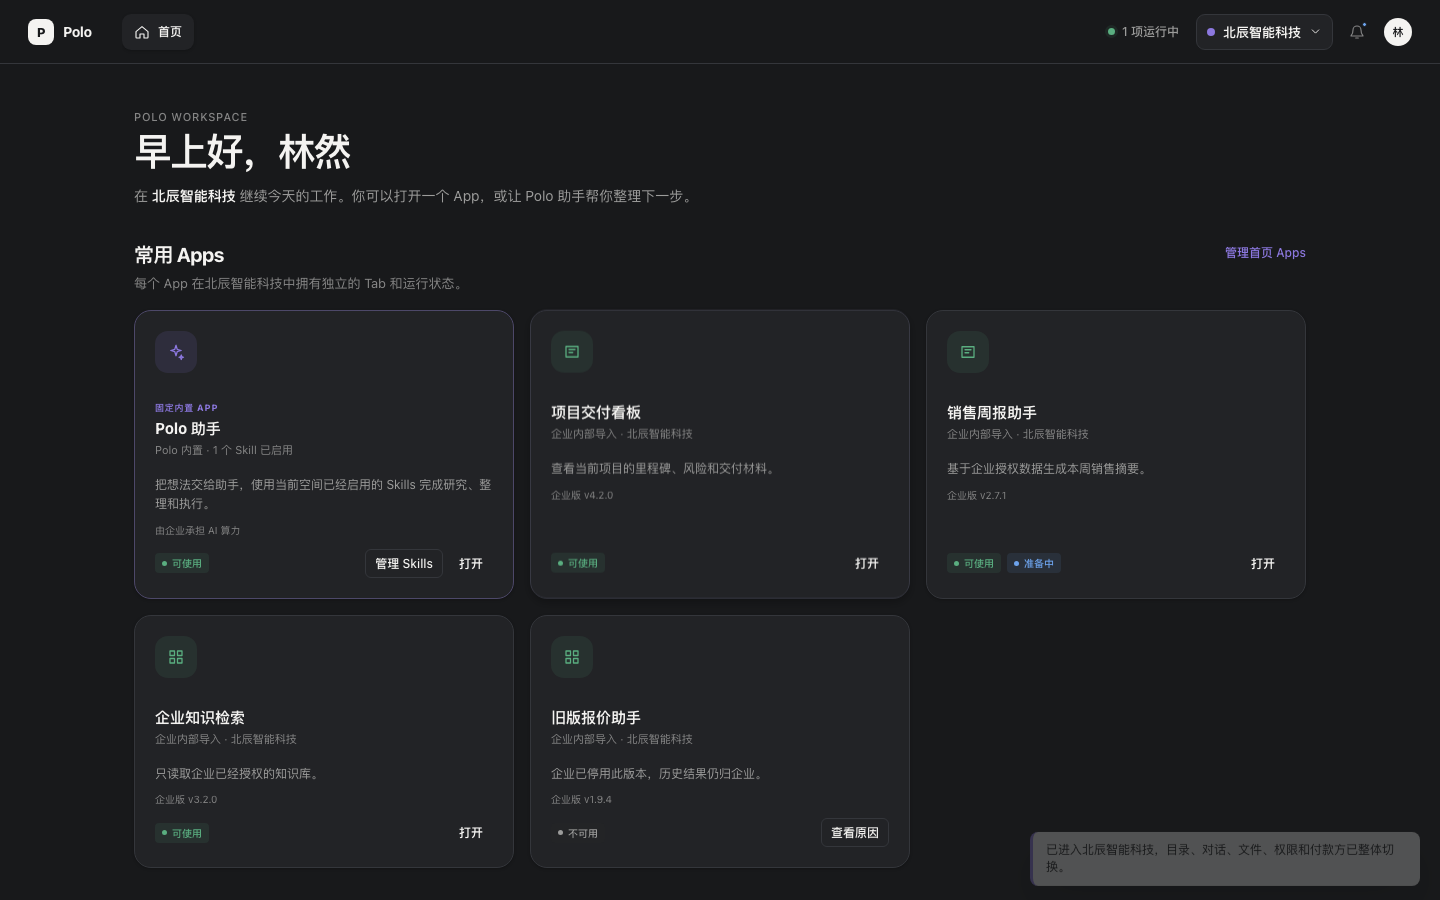
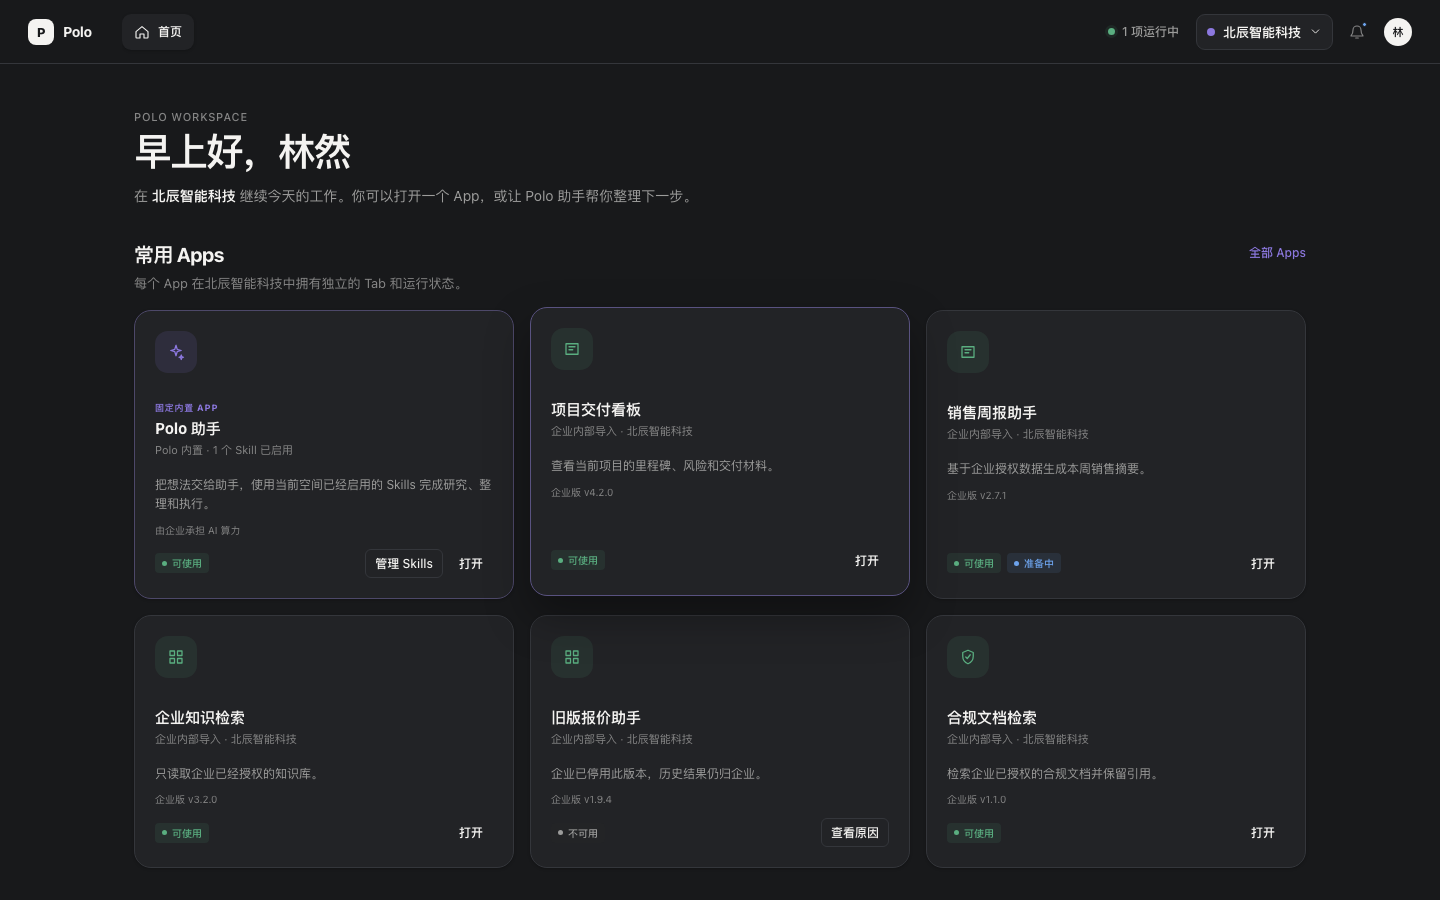
feat(polo-client): 增加当前空间全部 App 目录

diff --git a/design-demos/polo-client-g4-ui/assets/app.js b/design-demos/polo-client-g4-ui/assets/app.js
@@ -49,7 +49,10 @@
     weekly: { name: "销售周报助手", icon: "app", source: "企业内部导入 · 北辰智能科技", version: "企业版 v2.7.1", description: "基于企业授权数据生成本周销售摘要。", availability: "available" },
     knowledge: { name: "企业知识检索", icon: "grid", source: "企业内部导入 · 北辰智能科技", version: "企业版 v3.2.0", description: "只读取企业已经授权的知识库。", availability: "available" },
     legacy: { name: "旧版报价助手", icon: "grid", source: "企业内部导入 · 北辰智能科技", version: "企业版 v1.9.4", description: "企业已停用此版本，历史结果仍归企业。", availability: "unavailable", reason: "企业管理员已停用该版本。成员不能重新启用；如需恢复，请联系北辰智能科技管理员。" },
-    compliance: { name: "合规文档检索", icon: "shield", source: "企业内部导入 · 北辰智能科技", version: "企业版 v1.1.0", description: "已向你分发，添加后可从首页快速打开。", availability: "available" }
+    compliance: { name: "合规文档检索", icon: "shield", source: "企业内部导入 · 北辰智能科技", version: "企业版 v1.1.0", description: "检索企业已授权的合规文档并保留引用。", availability: "available" },
+    contract: { name: "合同风险扫描", icon: "shield", source: "企业内部导入 · 北辰智能科技", version: "企业版 v2.1.0", description: "识别合同中的付款、交付和责任风险。", availability: "available" },
+    review: { name: "项目复盘生成", icon: "app", source: "企业内部导入 · 北辰智能科技", version: "企业版 v1.4.0", description: "将里程碑、任务和会议材料整理为项目复盘。", availability: "available" },
+    customer_summary: { name: "客户资料摘要", icon: "grid", source: "企业内部导入 · 北辰智能科技", version: "企业版 v2.0.0", description: "从企业授权的客户材料中提取背景与待跟进事项。", availability: "available" }
   };
 
   const catalog = {
@@ -74,8 +77,8 @@
       ]
     },
     enterprise: {
-      added: ["board", "weekly", "knowledge", "legacy"],
-      available: ["compliance"],
+      added: ["board", "weekly", "knowledge", "legacy", "compliance"],
+      available: ["contract", "review", "customer_summary"],
       recent: [
         { id: "board", detail: "季度交付 · 6 分钟前" },
         { id: "assistant", detail: "企业知识检索 · 昨天" },
@@ -109,6 +112,7 @@
     highlightedSkill: null,
     circleQuery: "",
     circleFilter: "all",
+    catalogQuery: "",
     circleMemberships: space === "personal" ? { bridge: "active", north: "active", growth: "cancelled" } : {},
     assistantPanel: "chat",
     fileQuery: "",
@@ -153,7 +157,10 @@
     board: space => `读取${space.name}已向当前成员授权的项目、里程碑和交付材料`,
     weekly: space => `读取${space.name}已授权的销售数据与本次选择的补充材料`,
     knowledge: space => `只检索${space.name}已向当前成员开放的企业知识库`,
-    compliance: space => `只检索${space.name}已授权的合规文档，并保存引用记录`
+    compliance: space => `只检索${space.name}已授权的合规文档，并保存引用记录`,
+    contract: space => `只读取${space.name}中本次明确选择的合同，并将风险清单写回企业空间`,
+    review: space => `读取${space.name}已向当前成员授权的项目材料，并保存复盘结果`,
+    customer_summary: space => `只读取${space.name}已授权的客户资料，并保存摘要与待办`
   };
 
   const escapeHtml = value => String(value).replace(/[&<>'"]/g, char => ({ "&": "&amp;", "<": "&lt;", ">": "&gt;", "'": "&#39;", '"': "&quot;" }[char]));
@@ -250,17 +257,18 @@
       ? `<button class="card-action" data-remove="${id}">移出首页</button>`
       : atLimit
         ? `<button class="card-action" disabled title="请先移出一个工作 App">首页已满</button>`
-        : `<button class="card-action ${item.availability === "available" ? "primary" : ""}" data-add="${id}">显示在首页</button>`;
-    const action = `${reasonAction}${placementAction}`;
+        : `<button class="card-action" data-add="${id}">显示在首页</button>`;
+    const openAction = item.availability === "available" ? `<button class="card-action primary" data-open="${id}">打开</button>` : "";
+    const action = `${reasonAction}${placementAction}${openAction}`;
     const highlighted = current().highlightedApp === id && (!current().highlightedCircle || current().highlightedCircle === circle?.id);
     return `<article class="product-card placement-card ${highlighted ? "highlighted-card" : ""}"><div class="card-heading"><span class="app-art ${item.availability === "blocked" ? "ink" : item.update ? "amber" : "teal"}">${icon(item.icon)}</span><div class="card-title"><h3>${item.name}</h3><p class="source-line">来源圈子：${circle?.name || item.source}</p></div></div><p class="product-description">${item.description}</p><div class="card-meta">${circle?.creator || item.source} · ${item.version}</div><div class="status-line"><span class="status ${available.tone}">${available.label}</span>${running ? `<span class="status info">${statusLabel(running.status)}</span>` : ""}<span class="home-placement ${onHome ? "on" : ""}">${onHome ? "已在首页" : "未在首页"}</span>${action}</div></article>`;
   }
 
-  function circleAppGroup(circle) {
+  function circleAppGroup(circle, appIds = circle.apps) {
     const membership = circleMembership(circle);
-    const homeCount = circle.apps.filter(id => current().added.includes(id)).length;
+    const homeCount = appIds.filter(id => current().added.includes(id)).length;
     const highlighted = current().highlightedCircle === circle.id;
-    return `<section class="circle-app-section ${highlighted ? "highlighted-section" : ""}"><header class="circle-app-header"><span class="circle-avatar">${circle.initials}</span><div><div class="circle-app-title"><h3>${circle.name}</h3><span class="status ${membership.tone}">${membership.label}</span></div><p>${circle.creator} · ${circle.apps.length} 个 Apps · ${homeCount} 个显示在首页</p></div><button class="section-link" data-circle="${circle.id}">查看圈子详情</button></header><div class="card-grid">${circle.apps.map(id => homePlacementCard(id, circle)).join("")}</div></section>`;
+    return `<section class="circle-app-section ${highlighted ? "highlighted-section" : ""}"><header class="circle-app-header"><span class="circle-avatar">${circle.initials}</span><div><div class="circle-app-title"><h3>${circle.name}</h3><span class="status ${membership.tone}">${membership.label}</span></div><p>${circle.creator} · ${appIds.length} 个 Apps · ${homeCount} 个显示在首页</p></div><button class="section-link" data-circle="${circle.id}">查看圈子详情</button></header><div class="card-grid">${appIds.map(id => homePlacementCard(id, circle)).join("")}</div></section>`;
   }
 
   function utilityCard(id, title, description, meta) {
@@ -273,31 +281,54 @@
     const data = catalog[state.space];
     const circleEntry = state.space === "personal" ? `<button class="home-context-link" data-home-view="circles">${icon("circle")}<span><strong>我的圈子</strong><small>${visibleCircles().length} 个圈子</small></span>${icon("arrow")}</button>` : "";
     return `<section class="home-hero"><div><p class="eyebrow">Polo workspace</p><h1>早上好，林然</h1><p>在 <strong>${space.name}</strong> 继续今天的工作。你可以打开一个 App，或让 Polo 助手帮你整理下一步。</p></div>${circleEntry}</section>
-      ${section("常用 Apps", `每个 App 在${space.name}中拥有独立的 Tab 和运行状态。`, `<div class="card-grid home-app-grid">${assistantHomeCard()}${context.added.map(id => appCard(id)).join("")}</div>`, `<button class="section-link" data-home-view="catalog">管理首页 Apps</button>`)}
+      ${section("常用 Apps", `每个 App 在${space.name}中拥有独立的 Tab 和运行状态。`, `<div class="card-grid home-app-grid">${assistantHomeCard()}${context.added.map(id => appCard(id)).join("")}</div>`, `<button class="section-link" data-home-view="catalog">全部 Apps</button>`)}
       ${section("系统工具", "它们以 Tab 打开，但不拥有 App 的业务流程。", `<div class="utility-grid">${utilityCard("files", "文件", "当前空间上传、保存和导出的文件。", `${data.results.length + 9} 项内容`)}${utilityCard("tasks", "任务与结果", "Polo 掌握的执行状态与明确保存结果。", `${activeExecutions().length} 项运行中`)}</div>`)}
     `;
+  }
+
+  function matchesCatalogQuery(id, query, extra = []) {
+    if (!query) return true;
+    const item = apps[id];
+    return [item.name, item.description, item.source, item.version, ...extra].some(value => value.toLowerCase().includes(query));
+  }
+
+  function catalogSearchToolbar(visibleCount, totalCount) {
+    return `<div class="circle-browser-toolbar app-catalog-toolbar"><label><span>搜索当前空间的 App</span><input id="app-catalog-search" type="search" value="${escapeHtml(current().catalogQuery)}" placeholder="搜索 App 名称、功能或来源"></label><span>显示 <strong>${visibleCount}</strong> / ${totalCount} 个 Apps</span></div>`;
   }
 
   function catalogView() {
     const context = current();
     const data = catalog[state.space];
+    const query = context.catalogQuery.trim().toLowerCase();
+    const homeSection = section("首页快捷入口", `与首页保持一致：Polo 助手固定，另有 ${context.added.length} / 5 个工作 App。这里只管理首页位置，不影响 App 的授权。`, `<div class="card-grid">${assistantManagementCard()}${context.added.map(id => appCard(id, "manage")).join("")}</div>`);
     if (state.space === "personal") {
       const circles = visibleCircles();
       const appCount = circles.reduce((total, circle) => total + circle.apps.length, 0);
-      const groups = circles.map(circle => circleAppGroup(circle)).join("") || `<div class="empty-state"><h2>还没有圈子 Apps</h2><p>加入圈子后，获得的 Apps 会按来源出现在这里。</p></div>`;
-      const homeSection = section("首页当前展示", `与首页保持一致：Polo 助手固定，另有 ${context.added.length} / 5 个工作 App。可直接在这里移出。`, `<div class="card-grid">${assistantManagementCard()}${context.added.map(id => appCard(id, "manage")).join("")}</div>`);
-      const circleSection = section("圈子 Apps", `${circles.length} 个圈子，共 ${appCount} 个作品。同名作品也会分别显示，请通过来源圈子区分。`, `<div class="circle-app-list">${groups}</div>`);
-      return `${subpageHeader("管理首页 Apps", "上方就是首页当前布局；下方按圈子查看全部作品并选择哪些显示在首页。", `<button class="button" data-home-view="circles">${icon("circle")}我的圈子</button>`)}${homeSection}${circleSection}`;
+      const matchedGroups = circles.map(circle => ({ circle, ids: circle.apps.filter(id => matchesCatalogQuery(id, query, [circle.name, circle.creator])) })).filter(group => group.ids.length);
+      const visibleCount = matchedGroups.reduce((total, group) => total + group.ids.length, 0);
+      const groups = matchedGroups.map(group => circleAppGroup(group.circle, group.ids)).join("") || `<div class="empty-note">没有找到匹配的 App。试试作品名、功能或圈子名。</div>`;
+      const circleSection = section("当前空间的全部 Apps", `${circles.length} 个圈子，共 ${appCount} 个作品。同名作品会分别显示，并持续标明来源圈子。`, `${catalogSearchToolbar(visibleCount, appCount)}<div class="circle-app-list">${groups}</div>`, `<button class="section-link" data-home-view="circles">我的圈子</button>`);
+      return `${subpageHeader("全部 Apps", "首页只放最常用的 5 个工作 App；当前空间获得的其他 Apps 始终可以在这里搜索、打开和配置。")}${homeSection}${circleSection}`;
     }
-    const allIds = state.space === "personal" ? authorizedCircleAppIds() : [...new Set([...data.added, ...data.available])];
-    const availableIds = allIds.filter(id => !context.added.includes(id) && apps[id].availability === "available");
-    const unavailableIds = allIds.filter(id => !context.added.includes(id) && apps[id].availability !== "available");
-    const atLimit = context.added.length >= 5;
-    const sourceAction = `<button class="button" data-action="enterprise-admin">${icon("grid")}企业目录</button>`;
-    const addedSection = section("首页中的 Apps", `Polo 助手固定显示；另外最多放 5 个工作 App。当前共 ${context.added.length + 1} / 6 个。`, `<div class="card-grid">${assistantManagementCard()}${context.added.map(id => appCard(id, "manage")).join("")}</div>`);
-    const availableSection = section("其他可添加 Apps", atLimit ? "首页已满。请先从上方移出一个工作 App，再添加新的 App。" : "添加后会出现在首页，但不会自动打开或运行。", `<div class="card-grid compact-grid">${availableIds.map(id => appCard(id, atLimit ? "add-full" : "add")).join("") || `<div class="empty-note">所有可添加 App 都已在首页。</div>`}</div>`);
-    const unavailableSection = unavailableIds.length ? section("当前不可添加", "这些 App 的授权或安全状态不允许添加到首页；可以查看具体原因。", `<div class="card-grid compact-grid">${unavailableIds.map(id => appCard(id)).join("")}</div>`) : "";
-    return `${subpageHeader("管理首页 Apps", "在一个页面中添加或移除首页快捷入口。这里的操作不会运行或卸载 App。", sourceAction)}${addedSection}${availableSection}${unavailableSection}`;
+    const allIds = [...new Set([...data.added, ...data.available])];
+    const visibleIds = allIds.filter(id => matchesCatalogQuery(id, query, [currentSpace().name, "企业目录"]));
+    const directorySection = section("企业目录 Apps", `企业已向当前成员分发 ${allIds.length} 个 Apps。首页未展示的 App 仍可以直接打开。`, `${catalogSearchToolbar(visibleIds.length, allIds.length)}<div class="circle-browser-grid enterprise-app-grid">${visibleIds.map(id => enterpriseDirectoryCard(id)).join("") || `<div class="empty-note">没有找到匹配的企业 App。</div>`}</div>`, `<button class="section-link" data-action="enterprise-admin">企业目录来源</button>`);
+    return `${subpageHeader("全部 Apps", "首页只放最常用的 5 个工作 App；企业向你分发的其他 Apps 始终保留在当前空间目录中。")}${homeSection}${directorySection}`;
+  }
+
+  function enterpriseDirectoryCard(id) {
+    const item = apps[id];
+    const available = availability(item);
+    const running = executionFor(id);
+    const onHome = current().added.includes(id);
+    const atLimit = current().added.length >= 5;
+    const homeAction = onHome
+      ? `<button class="button" data-remove="${id}">移出首页</button>`
+      : atLimit
+        ? `<button class="button" disabled title="请先从上方移出一个工作 App">首页已满</button>`
+        : `<button class="button" data-add="${id}">显示在首页</button>`;
+    const openAction = item.availability === "available" ? `<button class="button primary" data-open="${id}">打开</button>` : `<button class="button" data-explain="${id}">查看原因</button>`;
+    return `<article class="circle-browser-card"><div class="circle-browser-heading"><span class="app-art ${item.availability === "blocked" ? "ink" : item.update ? "amber" : "teal"}">${icon(item.icon)}</span><div><h3>${item.name}</h3><span class="circle-source-pill">北辰智能科技企业目录</span></div></div><p>${item.description}</p><small>${item.version}</small><div class="circle-browser-status"><span class="status ${available.tone}">${available.label}</span>${running ? `<span class="status info">${statusLabel(running.status)}</span>` : ""}<span class="home-placement ${onHome ? "on" : ""}">${onHome ? "已在首页" : "未在首页"}</span></div><div class="circle-browser-actions">${homeAction}${openAction}</div></article>`;
   }
 
   function circlesView() {
@@ -315,7 +346,7 @@
     });
     const filters = `<div class="circle-filter-row" aria-label="按圈子筛选"><button class="circle-filter ${current().circleFilter === "all" ? "active" : ""}" data-circle-filter="all" aria-pressed="${current().circleFilter === "all"}">全部圈子 <span>${entries.length}</span></button>${circles.map(circle => `<button class="circle-filter ${current().circleFilter === circle.id ? "active" : ""}" data-circle-filter="${circle.id}" aria-pressed="${current().circleFilter === circle.id}">${circle.name} <span>${circle.apps.length}</span></button>`).join("")}</div>`;
     const browser = circles.length
-      ? `${section("全部圈子 Apps", "不需要先想起它属于哪个圈子。可以直接搜索、打开，每个作品都会标明来源圈子。", `<div class="circle-browser-toolbar"><label><span>搜索圈子 App</span><input id="circle-app-search" type="search" value="${escapeHtml(current().circleQuery)}" placeholder="搜索 App 名称、功能或来源圈子"></label><span>显示 <strong>${visibleEntries.length}</strong> / ${entries.length} 个 Apps</span></div>${filters}<div class="circle-browser-grid">${visibleEntries.map(({ id, circle }) => circleBrowserCard(id, circle)).join("") || `<div class="empty-note">没有找到匹配的圈子 App。试试作品名、功能或圈子名。</div>`}</div>`, `<button class="section-link" data-home-view="catalog">管理首页 Apps</button>`)}`
+      ? `${section("全部圈子 Apps", "不需要先想起它属于哪个圈子。可以直接搜索、打开，每个作品都会标明来源圈子。", `<div class="circle-browser-toolbar"><label><span>搜索圈子 App</span><input id="circle-app-search" type="search" value="${escapeHtml(current().circleQuery)}" placeholder="搜索 App 名称、功能或来源圈子"></label><span>显示 <strong>${visibleEntries.length}</strong> / ${entries.length} 个 Apps</span></div>${filters}<div class="circle-browser-grid">${visibleEntries.map(({ id, circle }) => circleBrowserCard(id, circle)).join("") || `<div class="empty-note">没有找到匹配的圈子 App。试试作品名、功能或圈子名。</div>`}</div>`, `<button class="section-link" data-home-view="catalog">全部 Apps</button>`)}`
       : `<div class="empty-state"><h2>还没有加入圈子</h2><p>通过创作者邀请、加入链接或二维码加入后，获得的作品会进入我的空间。</p></div>`;
     const memberships = circles.length ? section("已加入的圈子", "在这里查看单个圈子的详情、Skills 和成员资格。", `<div class="circle-list">${circles.map(circle => circleListCard(circle)).join("")}</div>`) : "";
     return `${subpageHeader("我的圈子", `已加入 ${circles.length} 个圈子。所有圈子 Apps 会先汇总展示，圈子仍只是作品来源，不是工作空间。`)}${browser}${memberships}`;
@@ -693,10 +724,11 @@
   });
 
   document.addEventListener("input", event => {
-    if (!["file-search", "circle-app-search"].includes(event.target.id)) return;
+    if (!["file-search", "circle-app-search", "app-catalog-search"].includes(event.target.id)) return;
     const inputId = event.target.id;
     if (inputId === "file-search") current().fileQuery = event.target.value;
-    else current().circleQuery = event.target.value;
+    else if (inputId === "circle-app-search") current().circleQuery = event.target.value;
+    else current().catalogQuery = event.target.value;
     renderMain();
     const input = $(`#${inputId}`);
     input?.focus();

diff --git a/design-demos/polo-client-g4-ui/assets/product.css b/design-demos/polo-client-g4-ui/assets/product.css
@@ -155,6 +155,8 @@ button:focus-visible, input:focus-visible, textarea:focus-visible, select:focus-
 .assistant-card .app-art { background: var(--accent-soft); color: var(--accent); }
 .assistant-card .card-action + .card-action { margin-left: 0; }
 .placement-card { min-height: 210px; }
+.placement-card .status-line { flex-wrap: wrap; }
+.placement-card .card-action + .card-action { margin-left: 0; }
 .home-placement { color: var(--fg-50); font-size: 10px; white-space: nowrap; }
 .home-placement.on { color: var(--accent); }
 .card-kicker { margin: 0 0 4px; color: var(--accent); font-size: 9px; font-weight: 720; letter-spacing: .08em; text-transform: uppercase; }
@@ -205,6 +207,8 @@ button:focus-visible, input:focus-visible, textarea:focus-visible, select:focus-
 
 .button { display: inline-flex; min-height: 32px; align-items: center; justify-content: center; gap: 6px; padding: 0 12px; border: 1px solid var(--border); border-radius: var(--radius-md); background: transparent; color: var(--foreground); font-size: 12px; font-weight: 500; white-space: nowrap; }
 .button:hover { background: var(--fg-5); }
+.button:disabled { cursor: not-allowed; opacity: .48; }
+.button:disabled:hover { background: transparent; }
 .button.primary { border-color: var(--accent); background: var(--accent); color: var(--on-accent); }
 .button.danger { border-color: var(--destructive); background: var(--destructive); color: #fff; }
 .button.quiet { min-height: 28px; }
